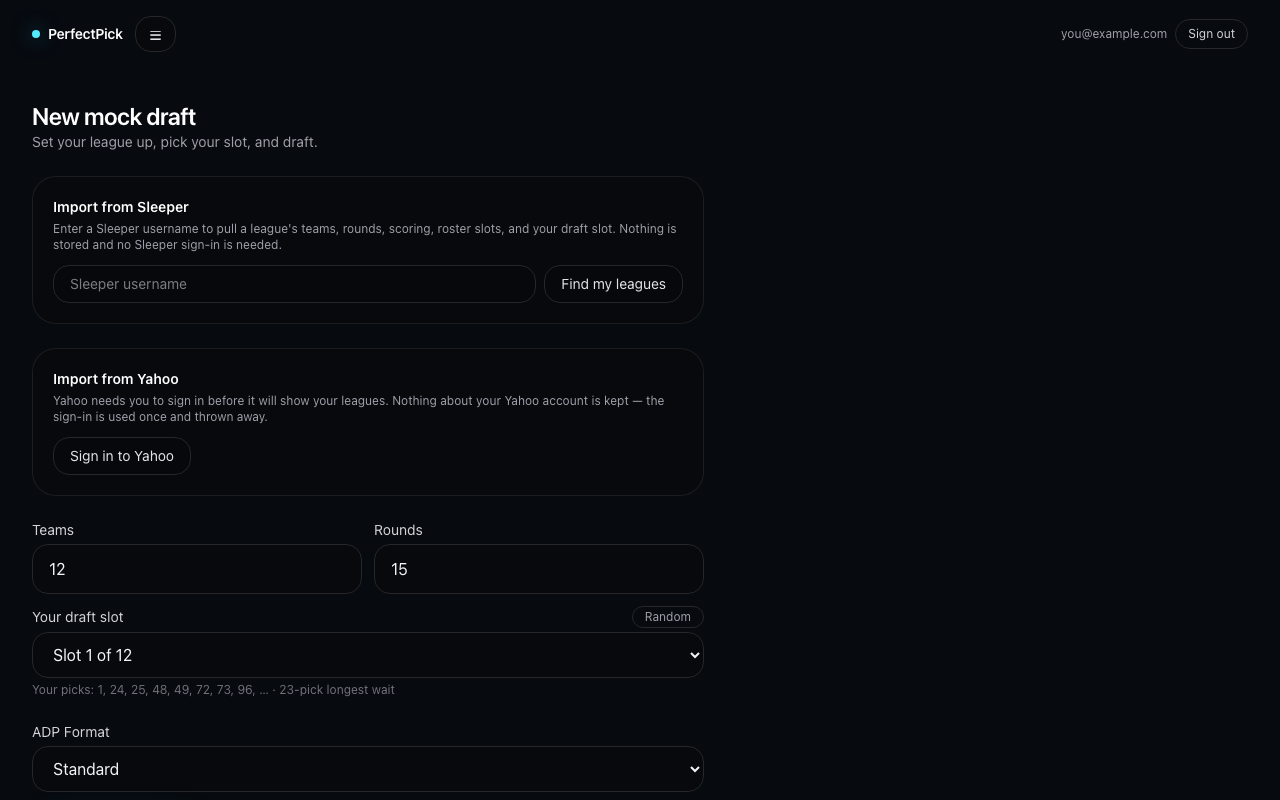
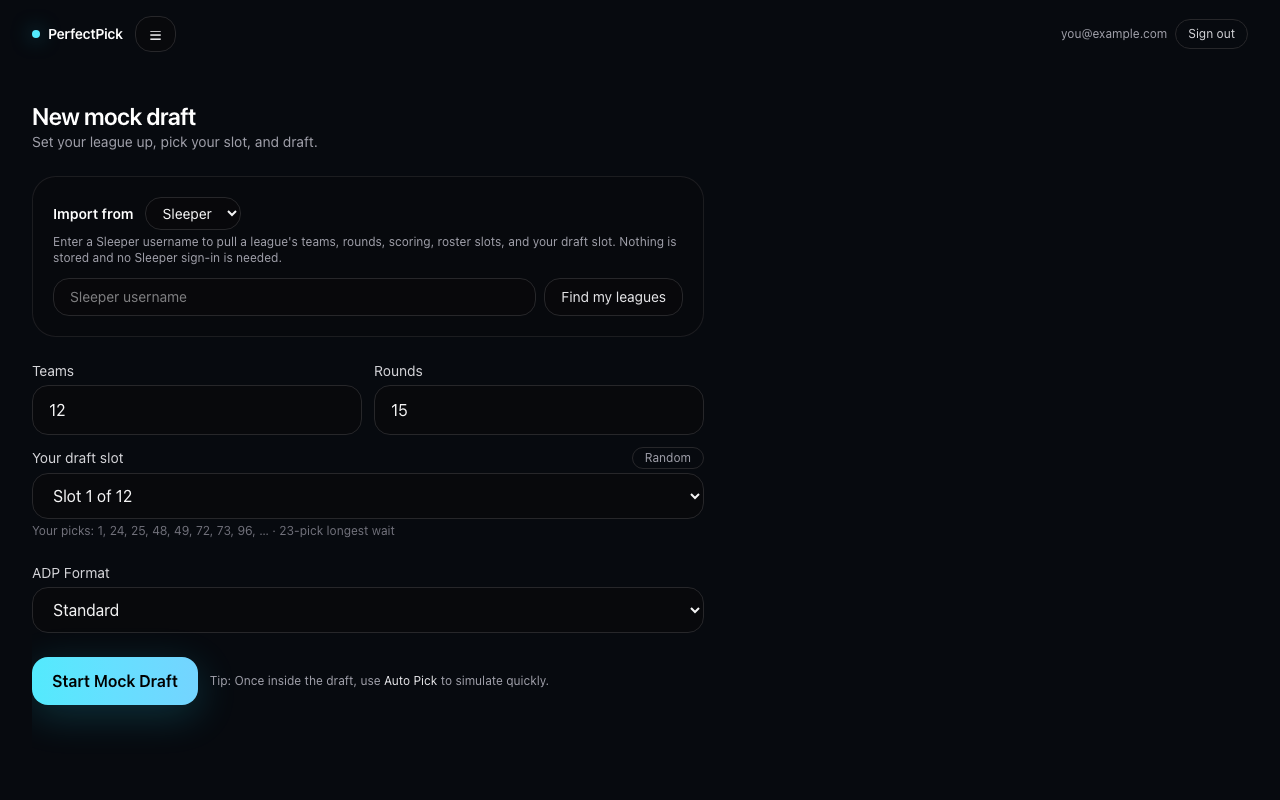
feat: choose the import platform from a dropdown

diff --git a/frontend/src/pages/NewDraft.jsx b/frontend/src/pages/NewDraft.jsx
@@ -45,6 +45,14 @@ export default function NewDraft() {
   const [yahooErr, setYahooErr] = useState("");
   const yahooClientId = import.meta.env.VITE_YAHOO_CLIENT_ID;
 
+  // Which import is on screen. Sleeper by default because it needs no login
+  // -- except when we have just come back from Yahoo's callback carrying
+  // leagues, in which case showing Sleeper would hide the very thing the
+  // user just authorised.
+  const [platform, setPlatform] = useState(
+    location.state?.yahooLeagues ? "yahoo" : "sleeper"
+  );
+
   usePageTitle("New Draft");
 
   // Populates the "Use my board" select below. A failed fetch just leaves the
@@ -142,113 +150,138 @@ export default function NewDraft() {
       </div>
 
       <div className="mb-6 max-w-2xl rounded-3xl border border-zinc-800/70 bg-zinc-950/60 p-5">
-        <div className="text-sm font-semibold text-white">Import from Sleeper</div>
-        <p className="mt-1 text-xs text-zinc-400">
-          Enter a Sleeper username to pull a league's teams, rounds, scoring, roster
-          slots, and your draft slot. Nothing is stored and no Sleeper sign-in is needed.
-        </p>
-
-        <div className="mt-3 flex flex-col gap-2 sm:flex-row">
-          <input
-            data-testid="sleeper-username"
-            value={username}
-            onChange={(e) => setUsername(e.target.value)}
-            onKeyDown={(e) => { if (e.key === "Enter") findLeagues(); }}
-            placeholder="Sleeper username"
-            className="flex-1 rounded-2xl border border-zinc-800 bg-zinc-950/70 px-4 py-2 text-sm text-zinc-100 outline-none focus:border-cyan-300/60"
-          />
-          <button
-            type="button"
-            onClick={findLeagues}
-            disabled={finding}
-            data-testid="sleeper-find"
-            className="rounded-2xl border border-zinc-800 bg-zinc-950/70 px-4 py-2 text-sm text-zinc-200 hover:border-zinc-600 disabled:opacity-50"
+        <div className="flex items-center gap-3">
+          <label htmlFor="import-platform" className="text-sm font-semibold text-white">
+            Import from
+          </label>
+          <select
+            id="import-platform"
+            data-testid="import-platform"
+            value={platform}
+            onChange={(e) => {
+              const next = e.target.value;
+              setPlatform(next);
+              // Clear the other service's leagues so a set fetched from one
+              // can never be applied while the other is selected. Fields the
+              // import already filled in are deliberately left alone.
+              if (next === "sleeper") setYahooLeagues(null);
+              else setLeagues(null);
+            }}
+            className="rounded-2xl border border-zinc-800 bg-zinc-950/70 px-3 py-1.5 text-sm text-zinc-100 outline-none focus:border-cyan-300/60"
           >
-            {finding ? "Finding…" : "Find my leagues"}
-          </button>
+            <option value="sleeper">Sleeper</option>
+            <option value="yahoo">Yahoo</option>
+          </select>
         </div>
 
-        {sleeperErr && (
-          <div data-testid="sleeper-error" className="mt-3 text-sm text-rose-300">
-            {sleeperErr}
-          </div>
-        )}
+        {platform === "sleeper" ? (
+          <>
+            <p className="mt-1 text-xs text-zinc-400">
+              Enter a Sleeper username to pull a league's teams, rounds, scoring, roster
+              slots, and your draft slot. Nothing is stored and no Sleeper sign-in is needed.
+            </p>
 
-        {leagues && leagues.length > 0 && (
-          <ul data-testid="sleeper-leagues" className="mt-3 space-y-1">
-            {leagues.map((l) => (
-              <li key={l.league_id}>
-                <button
-                  type="button"
-                  onClick={() => applyLeague(l)}
-                  className="w-full rounded-2xl border border-zinc-800 bg-zinc-950/60 px-3 py-2 text-left text-sm text-zinc-200 hover:border-cyan-300/60"
-                >
-                  {l.name}
-                  <span className="ml-2 text-xs text-zinc-500">
-                    {l.total_rosters} teams
-                  </span>
-                </button>
-              </li>
-            ))}
-          </ul>
-        )}
+            <div className="mt-3 flex flex-col gap-2 sm:flex-row">
+              <input
+                data-testid="sleeper-username"
+                value={username}
+                onChange={(e) => setUsername(e.target.value)}
+                onKeyDown={(e) => { if (e.key === "Enter") findLeagues(); }}
+                placeholder="Sleeper username"
+                className="flex-1 rounded-2xl border border-zinc-800 bg-zinc-950/70 px-4 py-2 text-sm text-zinc-100 outline-none focus:border-cyan-300/60"
+              />
+              <button
+                type="button"
+                onClick={findLeagues}
+                disabled={finding}
+                data-testid="sleeper-find"
+                className="rounded-2xl border border-zinc-800 bg-zinc-950/70 px-4 py-2 text-sm text-zinc-200 hover:border-zinc-600 disabled:opacity-50"
+              >
+                {finding ? "Finding…" : "Find my leagues"}
+              </button>
+            </div>
 
-      </div>
+            {sleeperErr && (
+              <div data-testid="sleeper-error" className="mt-3 text-sm text-rose-300">
+                {sleeperErr}
+              </div>
+            )}
 
-      <div className="mb-6 max-w-2xl rounded-3xl border border-zinc-800/70 bg-zinc-950/60 p-5">
-        <div className="text-sm font-semibold text-white">Import from Yahoo</div>
-        <p className="mt-1 text-xs text-zinc-400">
-          Yahoo needs you to sign in before it will show your leagues. Nothing about
-          your Yahoo account is kept — the sign-in is used once and thrown away.
-        </p>
-
-        {!yahooClientId ? (
-          // Same rule the landing page follows for sign-in: a button that
-          // cannot work is worse than an explanation of why it is missing.
-          <p className="mt-3 text-xs text-zinc-500">This build is not configured for Yahoo.</p>
+            {leagues && leagues.length > 0 && (
+              <ul data-testid="sleeper-leagues" className="mt-3 space-y-1">
+                {leagues.map((l) => (
+                  <li key={l.league_id}>
+                    <button
+                      type="button"
+                      onClick={() => applyLeague(l)}
+                      className="w-full rounded-2xl border border-zinc-800 bg-zinc-950/60 px-3 py-2 text-left text-sm text-zinc-200 hover:border-cyan-300/60"
+                    >
+                      {l.name}
+                      <span className="ml-2 text-xs text-zinc-500">
+                        {l.total_rosters} teams
+                      </span>
+                    </button>
+                  </li>
+                ))}
+              </ul>
+            )}
+          </>
         ) : (
-          <button
-            type="button"
-            data-testid="yahoo-import"
-            onClick={() => {
-              try {
-                window.location.assign(
-                  beginYahooAuth(yahooClientId, `${window.location.origin}/yahoo/callback`)
-                );
-              } catch (e) {
-                setYahooErr(e.message);
-              }
-            }}
-            className="mt-3 rounded-2xl border border-zinc-800 bg-zinc-950/70 px-4 py-2 text-sm text-zinc-200 hover:border-zinc-600"
-          >
-            Sign in to Yahoo
-          </button>
-        )}
+          <>
+            <p className="mt-1 text-xs text-zinc-400">
+              Yahoo needs you to sign in before it will show your leagues. Nothing about
+              your Yahoo account is kept — the sign-in is used once and thrown away.
+            </p>
 
-        {yahooErr && (
-          <div data-testid="yahoo-panel-error" className="mt-3 text-sm text-rose-300">{yahooErr}</div>
-        )}
+            {!yahooClientId ? (
+              // Same rule the landing page follows for sign-in: a button that
+              // cannot work is worse than an explanation of why it is missing.
+              <p className="mt-3 text-xs text-zinc-500">This build is not configured for Yahoo.</p>
+            ) : (
+              <button
+                type="button"
+                data-testid="yahoo-import"
+                onClick={() => {
+                  try {
+                    window.location.assign(
+                      beginYahooAuth(yahooClientId, `${window.location.origin}/yahoo/callback`)
+                    );
+                  } catch (e) {
+                    setYahooErr(e.message);
+                  }
+                }}
+                className="mt-3 rounded-2xl border border-zinc-800 bg-zinc-950/70 px-4 py-2 text-sm text-zinc-200 hover:border-zinc-600"
+              >
+                Sign in to Yahoo
+              </button>
+            )}
 
-        {yahooLeagues && yahooLeagues.length === 0 && (
-          <p data-testid="yahoo-leagues-empty" className="mt-3 text-sm text-zinc-400">
-            No Yahoo NFL leagues found for this season.
-          </p>
-        )}
+            {yahooErr && (
+              <div data-testid="yahoo-panel-error" className="mt-3 text-sm text-rose-300">{yahooErr}</div>
+            )}
 
-        {yahooLeagues && yahooLeagues.length > 0 && (
-          <ul data-testid="yahoo-leagues" className="mt-3 space-y-1">
-            {yahooLeagues.map((cfg) => (
-              <li key={cfg.leagueName}>
-                <button
-                  type="button"
-                  onClick={() => { applyConfig(cfg); setYahooLeagues(null); }}
-                  className="w-full rounded-2xl border border-zinc-800 bg-zinc-950/60 px-3 py-2 text-left text-sm text-zinc-200 hover:border-cyan-300/60"
-                >
-                  {cfg.leagueName}
-                </button>
-              </li>
-            ))}
-          </ul>
+            {yahooLeagues && yahooLeagues.length === 0 && (
+              <p data-testid="yahoo-leagues-empty" className="mt-3 text-sm text-zinc-400">
+                No Yahoo NFL leagues found for this season.
+              </p>
+            )}
+
+            {yahooLeagues && yahooLeagues.length > 0 && (
+              <ul data-testid="yahoo-leagues" className="mt-3 space-y-1">
+                {yahooLeagues.map((cfg) => (
+                  <li key={cfg.leagueName}>
+                    <button
+                      type="button"
+                      onClick={() => { applyConfig(cfg); setYahooLeagues(null); }}
+                      className="w-full rounded-2xl border border-zinc-800 bg-zinc-950/60 px-3 py-2 text-left text-sm text-zinc-200 hover:border-cyan-300/60"
+                    >
+                      {cfg.leagueName}
+                    </button>
+                  </li>
+                ))}
+              </ul>
+            )}
+          </>
         )}
       </div>
       {/*

diff --git a/frontend/tests/yahoo.spec.js b/frontend/tests/yahoo.spec.js
@@ -68,6 +68,7 @@ test("the Yahoo panel sends you to Yahoo with a state", async ({ page }) => {
 
   // Catch the navigation rather than following it off-site.
   await page.route("https://api.login.yahoo.com/**", (r) => r.fulfill({ status: 200, body: "stub" }));
+  await page.getByTestId("import-platform").selectOption("yahoo");
   await page.getByTestId("yahoo-import").click();
 
   await expect(page).toHaveURL(/api\.login\.yahoo\.com\/oauth2\/request_auth/);
@@ -144,4 +145,34 @@ test("a Yahoo import's roster summary does not blame Sleeper", async ({ page }) 
   // name a platform this league did not come from.
   await expect(page.getByTestId("roster-rounds-note")).toBeVisible();
   await expect(page.getByTestId("roster-rounds-note")).not.toContainText(/sleeper/i);
+});
+
+test("the platform dropdown swaps which import is on screen", async ({ page }) => {
+  await signIn(page);
+  await page.goto("/draft/new");
+
+  // Sleeper is the default, so its field is there without touching anything.
+  await expect(page.getByTestId("sleeper-username")).toBeVisible();
+  await expect(page.getByTestId("yahoo-import")).toHaveCount(0);
+
+  await page.getByTestId("import-platform").selectOption("yahoo");
+  await expect(page.getByTestId("yahoo-import")).toBeVisible();
+  await expect(page.getByTestId("sleeper-username")).toHaveCount(0);
+
+  await page.getByTestId("import-platform").selectOption("sleeper");
+  await expect(page.getByTestId("sleeper-username")).toBeVisible();
+});
+
+test("a Yahoo callback lands with Yahoo already selected", async ({ page }) => {
+  // Coming back from Yahoo with leagues, the dropdown must not be sitting on
+  // Sleeper -- the leagues just authorised would be hidden behind it.
+  await page.route(`${API}/yahoo/leagues`, (r) =>
+    r.fulfill({ json: { leagues: [{ leagueName: "Money League", teams: 10, rounds: 16, format: "half-ppr", rosterSlots: ["QB", "RB"], userTeam: 4 }] } })
+  );
+  await page.addInitScript(([v]) => window.sessionStorage.setItem("yahoo_oauth_state", v), ["s"]);
+  await signIn(page);
+  await page.goto("/yahoo/callback?code=abc&state=s");
+
+  await expect(page.getByTestId("import-platform")).toHaveValue("yahoo");
+  await expect(page.getByTestId("yahoo-leagues")).toContainText("Money League");
 });
